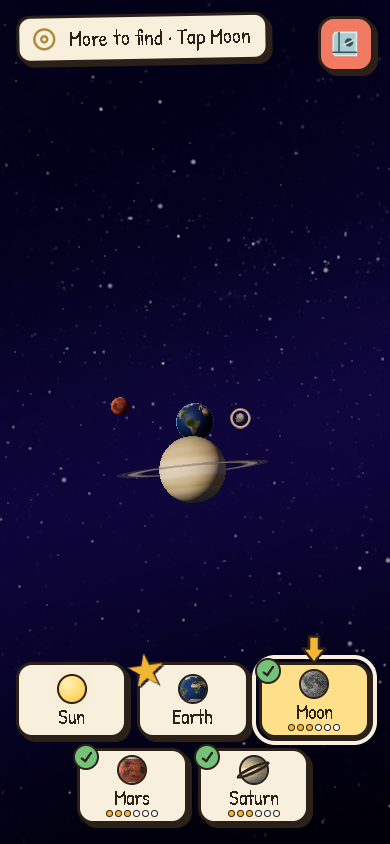
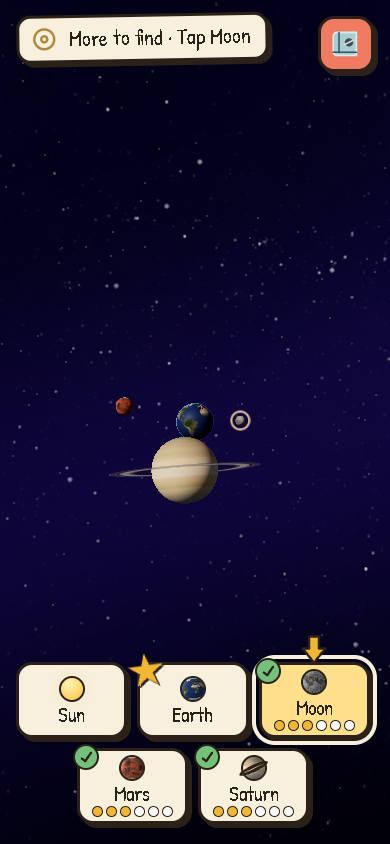
Bigger map dots on phone (owner review)

diff --git a/design/done-visible/mock.css b/design/done-visible/mock.css
@@ -63,9 +63,11 @@
 .destination-choice.is-full .pips { display:none; }
 .hint .icon-slot svg.mock-target { color:#b08a3c; }
 @media (max-width:520px) {
+  /* Owner: bigger dots on phone. 11 px reads at arm's length; a slightly smaller orb keeps the 76 px card. */
   .destination-choice { gap:2px; }
-  .destination-choice .pips { gap:2px; }
-  .destination-choice .pips > i { width:7px; height:7px; }
+  .destination-choice .world-orb { width:26px; height:26px; }
+  .destination-choice .pips { gap:3px; }
+  .destination-choice .pips > i { width:11px; height:11px; }
   .trip__badge { width:72px; height:72px; left:-12px; top:-18px; }
   .trip__badge b { font-size:32px; }
   .trip__head { margin-left:52px; font-size:23px; }
